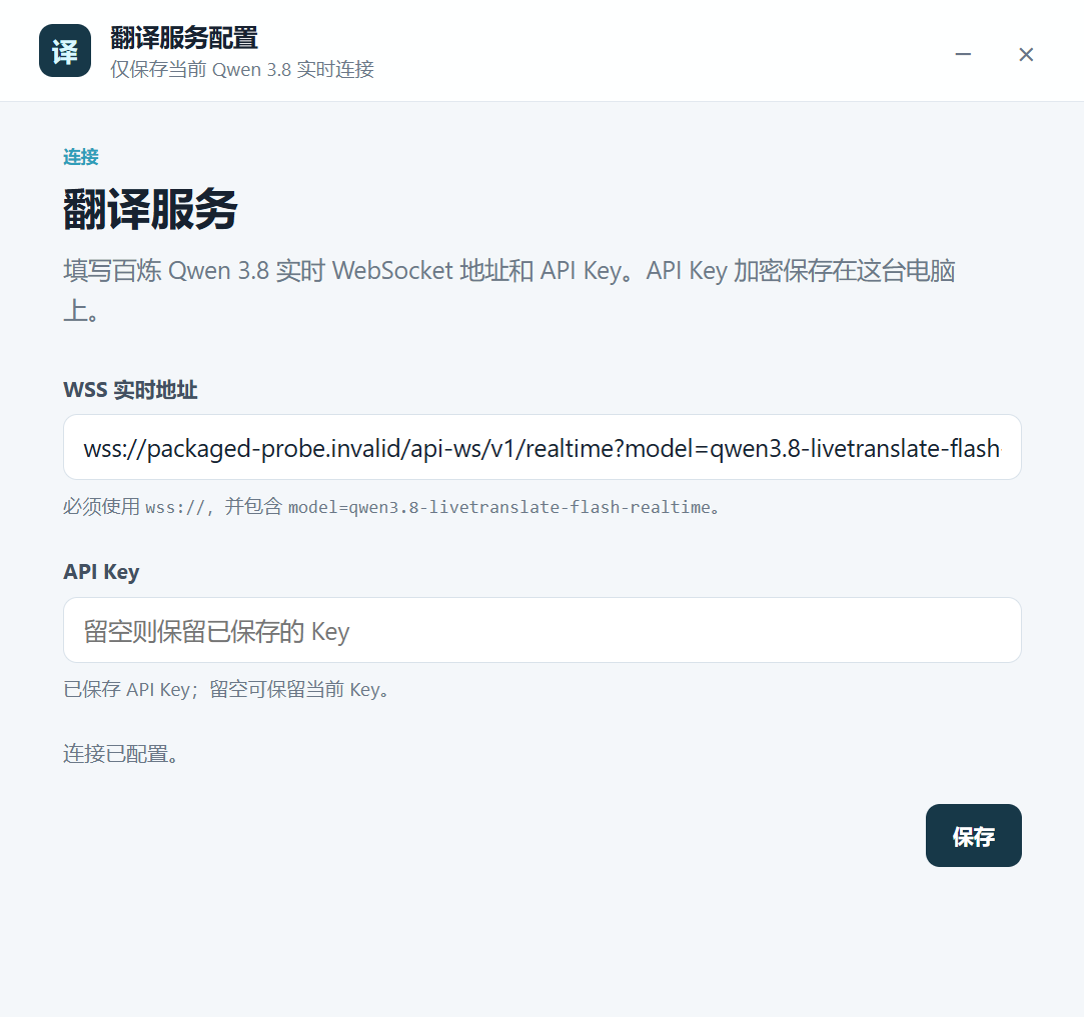
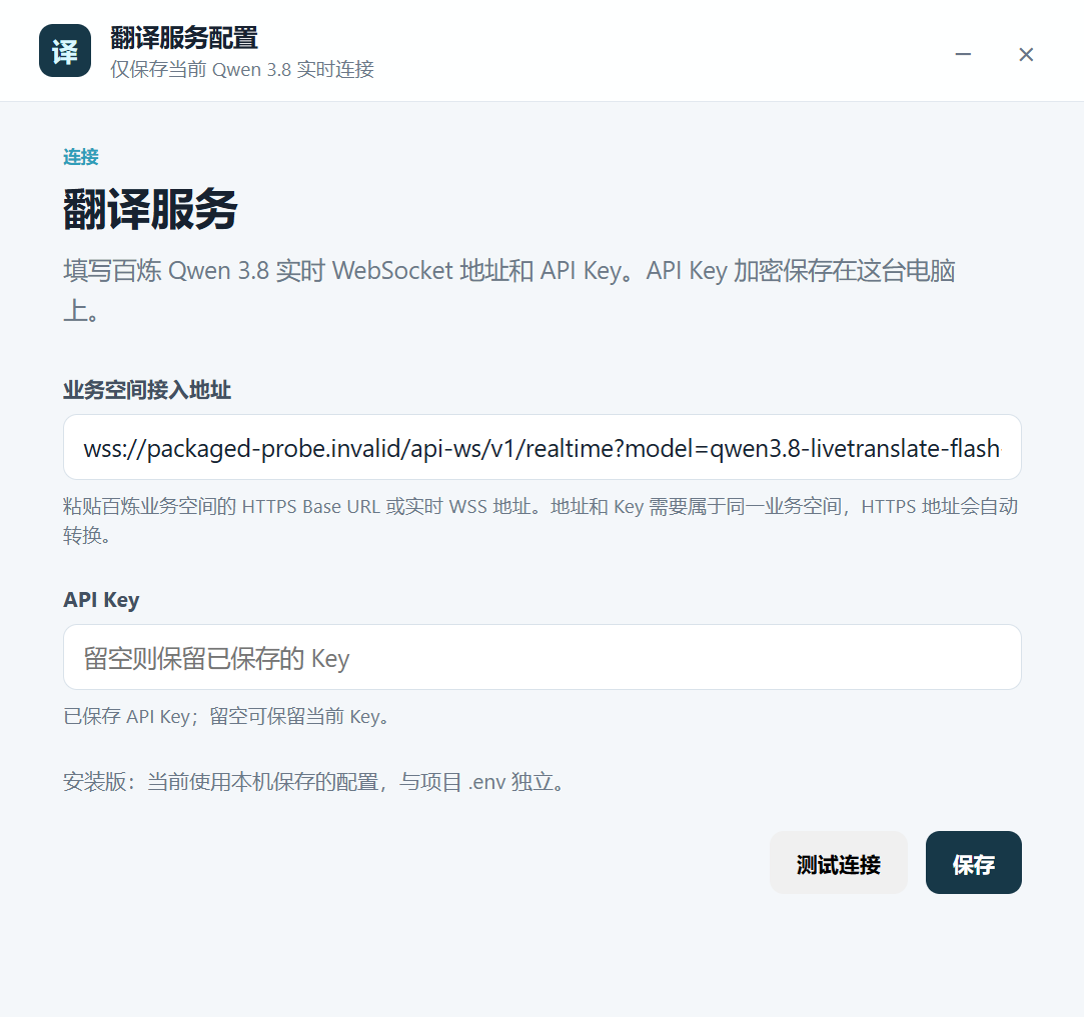
fix(connection): validate workspace credentials and explain handshake failures

diff --git a/electron/gateway.js b/electron/gateway.js
@@ -1,7 +1,8 @@
 const WebSocket = require('ws');
 const { performance } = require('node:perf_hooks');
+const { connectionError } = require('./connection-errors');
 
-function createRealtimeGateway({ endpoint, apiKey, transport = 'websocket', onEvent = () => {}, onFailure = () => {} }) {
+function createRealtimeGateway({ endpoint, apiKey, transport = 'websocket', connectTimeoutMs = 20000, onEvent = () => {}, onFailure = () => {} }) {
   if (transport !== 'websocket') throw new Error('当前已实现的传输方式为 WebSocket');
   let ws;
   let connected = false;
@@ -12,8 +13,10 @@ function createRealtimeGateway({ endpoint, apiKey, transport = 'websocket', onEv
   let rejectFinish;
   let finishTimer;
   let heartbeat;
+  let lastPong = Date.now();
   let rejectConnect;
   let connectTimer;
+  let failure;
   const metrics = {};
   const origin = performance.now();
   const elapsed = () => Math.round(performance.now() - origin);
@@ -23,28 +26,41 @@ function createRealtimeGateway({ endpoint, apiKey, transport = 'websocket', onEv
     ws.send(JSON.stringify(event));
   };
   function fail(error) {
+    if (failure || closing || finished) return;
+    failure = error;
+    connected = false;
     clearTimeout(connectTimer);
     clearTimeout(finishTimer);
+    clearInterval(heartbeat);
     rejectConnect?.(error);
     rejectFinish?.(error);
-    if (!closing) onFailure(error);
+    ws?.terminate();
+    onFailure(error);
   }
   async function connect(session) {
     if (!apiKey) throw new Error('未配置 API Key，请打开翻译服务配置后保存');
     return new Promise((resolve, reject) => {
       rejectConnect = reject;
-      connectTimer = setTimeout(() => fail(new Error('模型会话配置超时')), 20000);
-      ws = new WebSocket(endpoint, { headers: { Authorization: 'Bearer ' + apiKey }, handshakeTimeout: 15000, maxPayload: 8 * 1024 * 1024 });
+      connectTimer = setTimeout(() => fail(connectionError({ code: 'connection_timeout', message: '模型连接或会话配置超时' })), connectTimeoutMs);
+      ws = new WebSocket(endpoint, { headers: { Authorization: 'Bearer ' + apiKey }, handshakeTimeout: Math.min(15000, connectTimeoutMs), maxPayload: 8 * 1024 * 1024 });
       ws.on('open', () => {
         metrics.connect_ms = elapsed();
-        heartbeat = setInterval(() => { if (ws.readyState === WebSocket.OPEN) ws.ping(); }, 15000);
+        lastPong = Date.now();
+        heartbeat = setInterval(() => {
+          if (Date.now() - lastPong > 30000) fail(connectionError({ message: '模型网络心跳超时' }));
+          else if (ws.readyState === WebSocket.OPEN) ws.ping();
+        }, 15000);
         heartbeat.unref();
       });
-      ws.on('unexpected-response', (request, response) => { fail(new Error('模型握手失败：HTTP ' + response.statusCode)); ws.terminate(); });
-      ws.on('error', fail);
+      ws.on('pong', () => { lastPong = Date.now(); });
+      ws.on('unexpected-response', (request, response) => {
+        response.resume();
+        fail(connectionError({ status: response.statusCode, requestId: response.headers['x-request-id'] || response.headers['x-dashscope-request-id'] }));
+      });
+      ws.on('error', error => fail(connectionError({ message: error.message.replaceAll(apiKey, '[redacted]') })));
       ws.on('close', (code, reason) => {
         clearInterval(heartbeat);
-        if (!closing && !finished) fail(new Error('模型连接提前关闭：' + code + ' ' + reason.toString()));
+        if (!closing && !finished) fail(connectionError({ code: [1000, 1008, 1009].includes(code) ? 'session_closed' : 'network_error', message: '模型连接已关闭（' + code + '）' }));
       });
       ws.on('message', raw => {
         try {
@@ -70,8 +86,7 @@ function createRealtimeGateway({ endpoint, apiKey, transport = 'websocket', onEv
           }
           if (event.type === 'error') {
             const details = event.error || event;
-            const error = new Error(details.message || '模型返回错误');
-            error.code = details.code;
+            const error = connectionError({ code: details.code || 'model_error', message: String(details.message || '模型返回错误').replaceAll(apiKey, '[redacted]') });
             onEvent(event);
             fail(error);
             return;
@@ -95,6 +110,7 @@ function createRealtimeGateway({ endpoint, apiKey, transport = 'websocket', onEv
     send({ type: 'input_audio_buffer.append', audio: Buffer.from(pcm).toString('base64') });
   }
   function finish() {
+    if (failure) return Promise.reject(failure);
     if (finishing) return finishing;
     if (finished) return Promise.resolve();
     finishing = new Promise((resolve, reject) => {
@@ -110,9 +126,20 @@ function createRealtimeGateway({ endpoint, apiKey, transport = 'websocket', onEv
     clearTimeout(connectTimer);
     clearTimeout(finishTimer);
     clearInterval(heartbeat);
+    const cancelled = new Error('模型连接已取消');
+    rejectConnect?.(cancelled);
+    rejectFinish?.(cancelled);
     if (ws?.readyState === WebSocket.OPEN) ws.close();
     else if (ws?.readyState === WebSocket.CONNECTING) ws.terminate();
   }
   return { connect, sendAudio, finish, close, metrics };
 }
-module.exports = { createRealtimeGateway };
+async function testRealtimeConnection(config) {
+  const { buildSessionConfig } = require('./config');
+  const gateway = createRealtimeGateway(config);
+  try {
+    const accepted = await gateway.connect(buildSessionConfig({ target_language: 'en' }));
+    return { model: accepted.model, metrics: { ...gateway.metrics } };
+  } finally { gateway.close(); }
+}
+module.exports = { createRealtimeGateway, testRealtimeConnection };

diff --git a/electron/main.js b/electron/main.js
@@ -3,7 +3,8 @@ const os = require('node:os');
 const path = require('node:path');
 const { createOverlayPreferences } = require('./window-preferences.js');
 const { createAudioSettings } = require('./audio-settings.js');
-const { loadConfig } = require('./config.js');
+const { loadConfig, validateEndpoint } = require('./config.js');
+const { testRealtimeConnection } = require('./gateway.js');
 const { createConnectionSettings, validateApiKey } = require('./connection-settings.js');
 
 if (process.env.DDTRANS_TEST_USER_DATA) app.setPath('userData', process.env.DDTRANS_TEST_USER_DATA);
@@ -246,7 +247,7 @@ function scheduleOverlayClamp() {
 }
 
 function updatePowerSaveBlocker(snapshot) {
-  const shouldBlock = snapshot?.phase === 'running';
+  const shouldBlock = ['running', 'reconnecting'].includes(snapshot?.phase);
   if (shouldBlock && powerSaveBlockerId === undefined) powerSaveBlockerId = powerSaveBlocker.start('prevent-app-suspension');
   if (!shouldBlock && powerSaveBlockerId !== undefined) {
     if (powerSaveBlocker.isStarted(powerSaveBlockerId)) powerSaveBlocker.stop(powerSaveBlockerId);
@@ -604,7 +605,18 @@ function loadRuntimeConfig() {
 }
 
 function connectionSettingsView() {
-  return { endpoint: backendConfig.endpoint, hasKey: Boolean(backendConfig.apiKey) };
+  return { endpoint: backendConfig.endpoint, hasKey: Boolean(backendConfig.apiKey), source: app.isPackaged ? 'saved' : 'environment' };
+}
+
+function resolveConnectionInput(input) {
+  if (!input || typeof input !== 'object' || Array.isArray(input)) throw new Error('无效翻译服务配置');
+  const endpoint = validateEndpoint(input.endpoint);
+  if (input.apiKey !== undefined && typeof input.apiKey !== 'string') throw new Error('API Key 格式无效');
+  const enteredKey = input.apiKey?.trim();
+  const saved = getConnectionSettingsStore();
+  const apiKey = enteredKey ? validateApiKey(enteredKey) : backendConfig.apiKey || (saved.get().hasKey ? saved.getSecret() : '');
+  if (!apiKey) throw new Error('请输入 API Key');
+  return { endpoint, apiKey };
 }
 
 function serializeConnectionSave(work) {
@@ -736,29 +748,10 @@ ipcMain.handle('get-connection-settings', event => {
 ipcMain.handle('save-connection-settings', (event, input) => {
   trusted(event);
   return serializeConnectionSave(async () => {
-    if (!input || typeof input !== 'object' || Array.isArray(input)) throw new Error('无效翻译服务配置');
-    const endpoint = input.endpoint;
-    if (typeof endpoint !== 'string') throw new Error('请输入 Qwen 3.8 实时 WSS 地址');
-    if (input.apiKey !== undefined && typeof input.apiKey !== 'string') throw new Error('API Key 格式无效');
+    const { endpoint, apiKey } = resolveConnectionInput(input);
     const saved = getConnectionSettingsStore();
-    const profile = saved.get();
-    const enteredKey = input.apiKey?.trim();
-    let apiKey;
-    let profileKey;
-    if (enteredKey) {
-      apiKey = validateApiKey(enteredKey);
-      profileKey = apiKey;
-    } else if (profile.hasKey) {
-      apiKey = saved.getSecret();
-      profileKey = undefined;
-    } else if (backendConfig.apiKey) {
-      apiKey = backendConfig.apiKey;
-      profileKey = undefined;
-    } else {
-      throw new Error('请输入 API Key');
-    }
     const previous = { ...backendConfig };
-    const staged = saved.prepareSave({ endpoint, apiKey: profileKey });
+    const staged = saved.prepareSave({ endpoint, apiKey });
     const next = { ...previous, endpoint, apiKey };
     let accepted;
     try {
@@ -781,6 +774,10 @@ ipcMain.handle('save-connection-settings', (event, input) => {
       throw new Error('连接设置未写入，已恢复运行配置：' + error.message);
     }
   });
+});
+ipcMain.handle('test-connection-settings', async (event, input) => {
+  trusted(event);
+  return testRealtimeConnection(resolveConnectionInput(input));
 });
 ipcMain.handle('open-system-audio-settings', async event => {
   trusted(event);

diff --git a/app/js/connection-settings.js b/app/js/connection-settings.js
@@ -10,13 +10,14 @@ async function initialize() {
   if (!api) {
     status('请通过 DDTrans 桌面应用打开此页面。', true);
     byId('saveBtn').disabled = true;
+    byId('testBtn').disabled = true;
     return;
   }
   try {
     const settings = await api.getConnectionSettings();
     byId('endpoint').value = settings.endpoint;
     byId('keyHint').textContent = settings.hasKey ? '已保存 API Key；留空可保留当前 Key。' : '尚未配置 API Key；保存前必须输入。';
-    status(settings.hasKey ? '连接已配置。' : '尚未配置 API Key，开始同传前请先保存。');
+    status(settings.hasKey ? (settings.source === 'environment' ? '开发模式：当前使用项目 .env 配置。' : '安装版：当前使用本机保存的配置，与项目 .env 独立。') : '尚未配置 API Key，开始同传前请先保存。');
   } catch (error) {
     status(error.message, true);
   }
@@ -26,17 +27,32 @@ byId('connectionForm').addEventListener('submit', async event => {
   event.preventDefault();
   const button = byId('saveBtn');
   button.disabled = true;
-  status('正在保存…');
+  byId('testBtn').disabled = true;
+  status('正在验证连接并保存…');
   try {
+    await api.testConnectionSettings({ endpoint: byId('endpoint').value.trim(), apiKey: byId('apiKey').value });
     const result = await api.saveConnectionSettings({ endpoint: byId('endpoint').value.trim(), apiKey: byId('apiKey').value });
     byId('apiKey').value = '';
     byId('keyHint').textContent = result.hasKey ? '已保存 API Key；留空可保留当前 Key。' : '当前连接没有保存 API Key。';
-    status('已保存，可开始同传。');
+    byId('endpoint').value = result.endpoint;
+    status('连接验证成功，配置已保存。');
   } catch (error) {
     status(error.message, true);
   } finally {
     button.disabled = false;
+    byId('testBtn').disabled = false;
   }
+});
+
+byId('testBtn').addEventListener('click', async () => {
+  const button = byId('testBtn');
+  button.disabled = byId('saveBtn').disabled = true;
+  status('正在验证 API Key 和模型配置…');
+  try {
+    const result = await api.testConnectionSettings({ endpoint: byId('endpoint').value.trim(), apiKey: byId('apiKey').value });
+    status('连接成功，Qwen 3.8 已接受配置，耗时 ' + result.metrics.configure_ms + ' ms。修改过配置后请保存。');
+  } catch (error) { status(error.message, true); }
+  finally { button.disabled = byId('saveBtn').disabled = false; }
 });
 
 byId('minimizeBtn').addEventListener('click', () => void api?.minimizeWindow());

diff --git a/electron/config.js b/electron/config.js
@@ -11,7 +11,13 @@ function validateEndpoint(endpoint) {
   let url;
   try { url = new URL(endpoint.trim()); }
   catch { throw new Error('QWEN_WS_URL 必须是有效的 WSS 地址'); }
+  if (url.protocol === 'https:' && ['/compatible-mode/v1', '/compatible-mode/v1/', '/api-ws/v1/realtime'].includes(url.pathname)) {
+    url.protocol = 'wss:';
+    url.pathname = '/api-ws/v1/realtime';
+    if (!url.searchParams.has('model')) url.searchParams.set('model', MODEL);
+  }
   if (url.protocol !== 'wss:' || url.searchParams.get('model') !== MODEL) throw new Error('QWEN_WS_URL 必须为 qwen3.8 的 wss 实时地址');
+  if (url.username || url.password || url.hash) throw new Error('连接地址不能包含用户名、密码或片段');
   return url.href;
 }
 
@@ -60,8 +66,8 @@ function buildSessionConfig(options = {}) {
 function transportCapabilities() {
   return [
     { id: 'websocket', available: true, label: 'WebSocket' },
-    { id: 'webrtc', available: false, label: 'WebRTC', reason: '尚未实现客户端媒体、鉴权与存储接入' },
-    { id: 'aoq', available: false, label: 'AOQ', reason: '尚未验证 Windows/Electron SDK 接入' },
+    { id: 'webrtc', available: false, label: 'WebRTC', reason: '真实探针已验证；产品录音、落库与重连尚未接入' },
+    { id: 'aoq', available: false, label: 'AOQ', reason: '官方 Electron SDK 1.4.0 已实测；尾段完整性尚未通过验收' },
   ];
 }
 module.exports = { MODEL, DEFAULT_ENDPOINT, validateEndpoint, loadConfig, buildSessionConfig, transportCapabilities };

diff --git a/app/connection.html b/app/connection.html
@@ -26,9 +26,9 @@
             </section>
             <form id="connectionForm" novalidate>
                 <div class="field">
-                    <label for="endpoint">WSS 实时地址</label>
+                    <label for="endpoint">业务空间接入地址</label>
                     <input id="endpoint" name="endpoint" type="url" autocomplete="url" spellcheck="false" required>
-                    <small>必须使用 <code>wss://</code>，并包含 <code>model=qwen3.8-livetranslate-flash-realtime</code>。</small>
+                    <small>粘贴百炼业务空间的 HTTPS Base URL 或实时 WSS 地址。地址和 Key 需要属于同一业务空间，HTTPS 地址会自动转换。</small>
                 </div>
                 <div class="field">
                     <label for="apiKey">API Key</label>
@@ -37,6 +37,7 @@
                 </div>
                 <p id="connectionStatus" class="status" role="status"></p>
                 <div class="actions">
+                    <button id="testBtn" class="button" type="button">测试连接</button>
                     <button id="saveBtn" class="button primary" type="submit">保存</button>
                 </div>
             </form>

diff --git a/electron/connection-errors.js b/electron/connection-errors.js
@@ -1,0 +1,16 @@
+function connectionError({ status, code, message, requestId } = {}) {
+  const errors = {
+    401: ['authentication_failed', 'API Key 验证失败（HTTP 401）。请核对 Key，并使用同一业务空间的接入地址。'],
+    403: ['access_denied', '没有模型访问权限（HTTP 403）。请检查业务空间、地域和模型授权。'],
+    404: ['endpoint_not_found', '实时接口不存在（HTTP 404）。请填写业务空间的接入地址。'],
+    429: ['rate_limited', '模型调用已限流或额度不足（HTTP 429）。请检查百炼控制台后重试。'],
+  };
+  const known = errors[status];
+  const error = new Error(known?.[1] || message || (status ? '模型服务暂时不可用（HTTP ' + status + '）' : '模型网络连接已中断'));
+  error.code = known?.[0] || code || (status ? 'service_unavailable' : 'network_error');
+  error.retryable = !known && (status >= 500 || ['network_error', 'connection_timeout'].includes(error.code));
+  if (status) error.httpStatus = status;
+  if (requestId) error.requestId = String(requestId).slice(0, 200);
+  return error;
+}
+module.exports = { connectionError };

diff --git a/app/css/connection-settings.css b/app/css/connection-settings.css
@@ -26,7 +26,7 @@ h1 { margin: 0 0 8px; font-size: 25px; }
 code { font-family: Consolas, monospace; font-size: .95em; }
 .status { min-height: 20px; margin: 2px 0 18px; color: var(--muted); font-size: 12px; line-height: 1.5; }
 .status[data-error="true"] { color: var(--red); }
-.actions { display: flex; justify-content: flex-end; }
+.actions { display: flex; justify-content: flex-end; gap: 10px; }
 .button { min-height: 36px; padding: 0 15px; border: 1px solid transparent; border-radius: 8px; font-size: 12px; font-weight: 650; cursor: pointer; }
 .button.primary { background: #173848; color: #fff; }
 .button.primary:hover { background: #21546a; }

diff --git a/electron/preload.js b/electron/preload.js
@@ -48,6 +48,7 @@ if (location.pathname === '/media-host.html') {
     openConnectionSettings: () => invoke('open-connection-settings'),
     getConnectionSettings: () => invoke('get-connection-settings'),
     saveConnectionSettings: settings => invoke('save-connection-settings', settings),
+    testConnectionSettings: settings => invoke('test-connection-settings', settings),
     openSystemAudioSettings: () => invoke('open-system-audio-settings'),
     getAudioSettings: () => invoke('get-audio-settings'),
     openPermissionSettings: () => invoke('open-permission-settings'),
